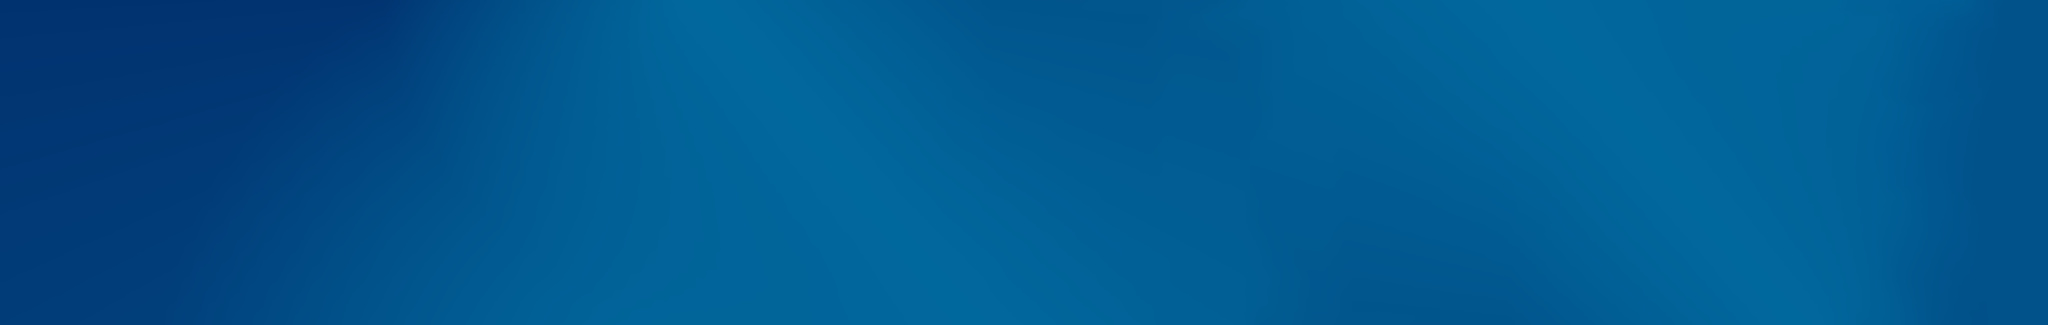
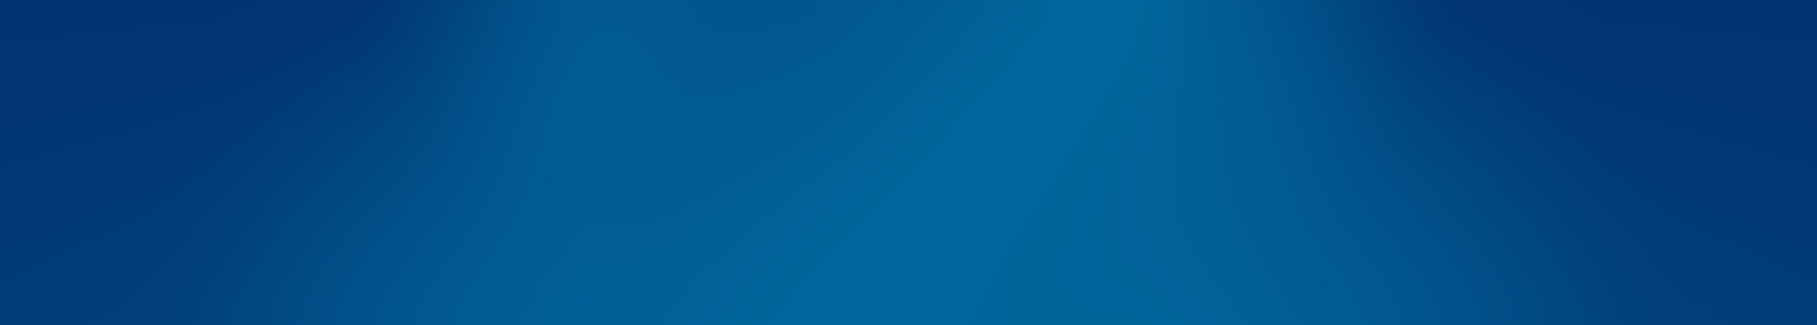
Make background on stage page tileable

Changed region(s): [[0.7089, 0.0, 1.0, 1.0]]

diff --git a/insekta/insekta/base/static/css/custom.css b/insekta/insekta/base/static/css/custom.css
@@ -11,6 +11,8 @@
 
 #welcome-header {
 	background:url(../images/background.jpg);
+	background-position:center;
+	background-repeat:repeat-x;
 	color:#fff;
 	padding:10px;
 }
